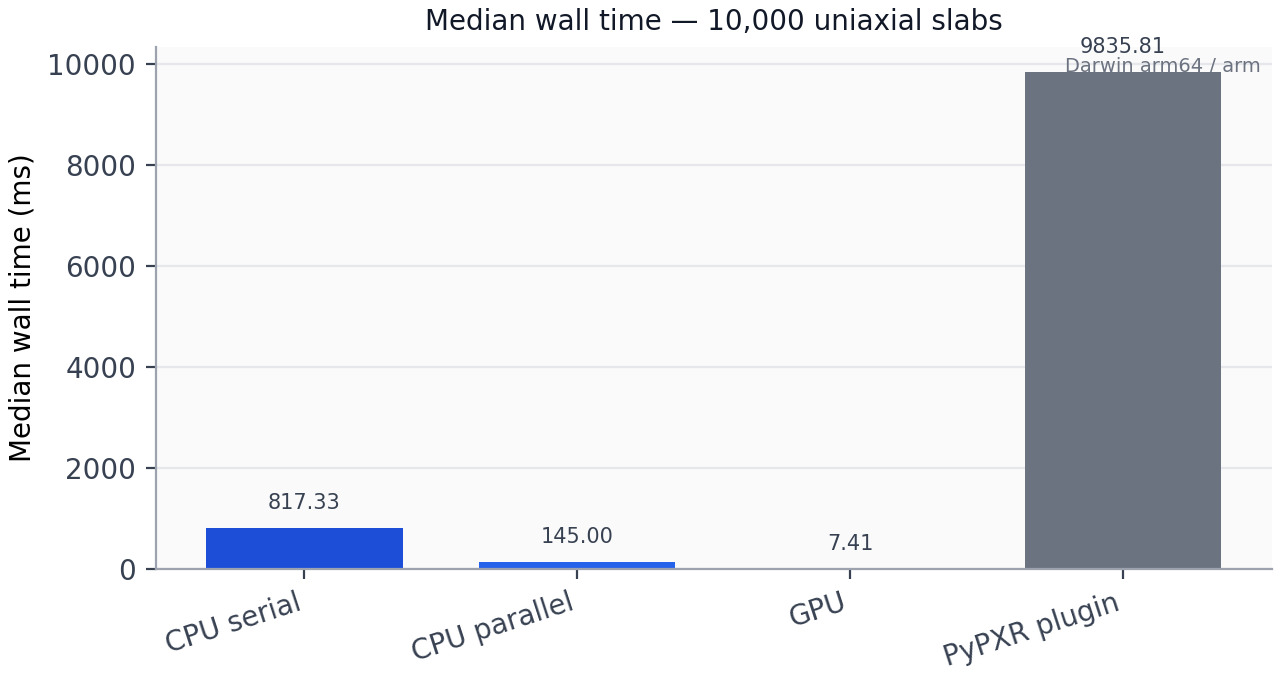
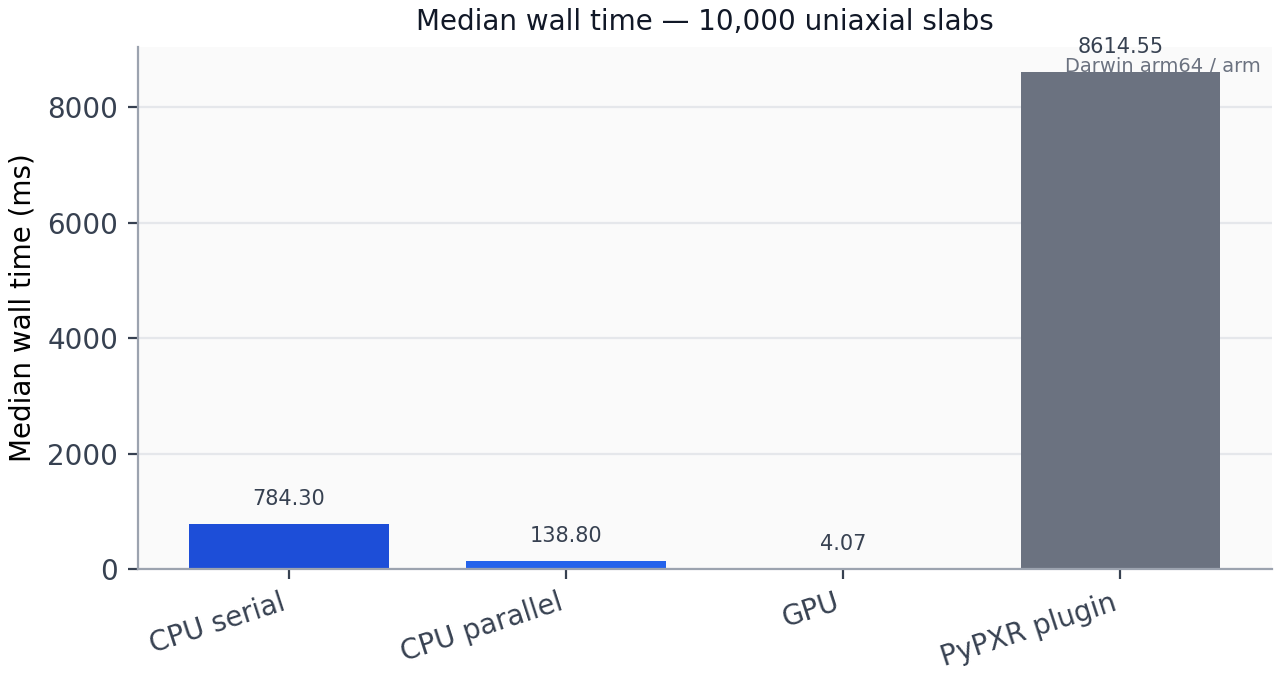
docs(readme): collapse bench details behind a hero performance figure
Add a horizontal log-scale hero chart and keep the full 1-slab / 10k
speed+memory panels in a GitHub <details> block for a cleaner README.

diff --git a/examples/gpu_backend_bench.py b/examples/gpu_backend_bench.py
@@ -469,6 +469,84 @@ def _bar_panel(
         )
 
 
+def write_hero_plot(
+    rows: list[BenchRow],
+    *,
+    out_dir: Path,
+    machine: str,
+    n_film: int = HEADLINE_FILMS[1],
+) -> Path:
+    """Wide horizontal README hero: wall time at ``n_film`` with speedup labels."""
+    import matplotlib.pyplot as plt
+
+    panel = _rows_for(rows, n_film)
+    if not panel:
+        msg = f"no finite rows for n_film={n_film}"
+        raise RuntimeError(msg)
+
+    # Slowest finite backend is the reference (PyPXR when present).
+    ref = max(panel, key=lambda r: r.median_s)
+    labels = [BACKEND_SHORT[r.backend] for r in reversed(panel)]
+    colors = [BACKEND_COLORS[r.backend] for r in reversed(panel)]
+    times_ms = [r.median_s * 1e3 for r in reversed(panel)]
+    speedups = [
+        (ref.median_s / r.median_s) if r.median_s > 0 else float("nan")
+        for r in reversed(panel)
+    ]
+
+    fig, ax = plt.subplots(figsize=(8.2, 3.2), layout="constrained")
+    ax.set_facecolor("#ffffff")
+    y = np.arange(len(labels))
+    ax.barh(y, times_ms, color=colors, height=0.62, zorder=2)
+    ax.set_yticks(y, labels)
+    ax.set_xscale("log")
+    ax.set_xlabel("Median wall time (ms, log scale)")
+    ax.set_title(
+        f"Uniaxial reflectivity — {n_film:,} film slabs / {panel[0].n_q} q-points",
+        fontsize=11,
+        color="#111827",
+        loc="left",
+        pad=10,
+    )
+    ax.spines["top"].set_visible(False)
+    ax.spines["right"].set_visible(False)
+    ax.spines["left"].set_color("#d1d5db")
+    ax.spines["bottom"].set_color("#d1d5db")
+    ax.grid(axis="x", color="#f3f4f6", linewidth=0.9, zorder=0)
+    ax.tick_params(colors="#374151")
+    xmax = max(times_ms)
+    for yi, ms, speedup in zip(y, times_ms, speedups, strict=True):
+        if speedup >= 1.05:
+            label = f"{ms:.1f} ms  ·  {speedup:.0f}×"
+        else:
+            label = f"{ms:.1f} ms  ·  baseline"
+        ax.text(
+            ms * 1.08,
+            yi,
+            label,
+            va="center",
+            ha="left",
+            fontsize=8,
+            color="#374151",
+        )
+    ax.set_xlim(min(times_ms) * 0.4, xmax * 8)
+    ax.text(
+        0.99,
+        0.02,
+        machine,
+        transform=ax.transAxes,
+        ha="right",
+        va="bottom",
+        fontsize=7,
+        color="#9ca3af",
+    )
+    out_dir.mkdir(parents=True, exist_ok=True)
+    path = out_dir / "bench_hero.png"
+    fig.savefig(path, dpi=220, facecolor="white")
+    plt.close(fig)
+    return path
+
+
 def write_plots(
     rows: list[BenchRow],
     *,
@@ -478,7 +556,7 @@ def write_plots(
     import matplotlib.pyplot as plt
 
     out_dir.mkdir(parents=True, exist_ok=True)
-    written: list[Path] = []
+    written: list[Path] = [write_hero_plot(rows, out_dir=out_dir, machine=machine)]
 
     fig, axes = plt.subplots(2, 2, figsize=(9.5, 6.8), layout="constrained")
     for col, n_film in enumerate(HEADLINE_FILMS):

diff --git a/README.md b/README.md
@@ -1,78 +1,86 @@
 # refloxide
 
-A blazingly fast 4x4 transfer matrix method for polarized reflectivity from stratified media.
+An extremely fast 4x4 transfer-matrix engine for **polarized** reflectivity
+from stratified media — written in Rust, with optional wgpu GPU acceleration
+and thin Python bindings.
 
-refloxide is a ground-up rewrite aimed at energy-dispersive soft X-ray and
-polarized neutron work where scalar codes fall short. It ships a Rust core
-(optional wgpu GPU path), thin Python bindings, and opt-in modeling /
-objective layers.
-
-Related baselines:
-
-- [refnx](https://github.com/refnx/refnx) — scalar Abeles / Parratt and the
-  host for the historical **PyPXR** polarized plugin API (vendored in-tree as
-  `refloxide.pxr.plugin`).
-- [refl1d](https://github.com/reflectometry/refl1d) — strong for scalar
-  stacks; awkward for general dielectric tensors.
+- Blazing forward models for uniaxial stacks (CPU + GPU)
+- Drop-in polarized path relative to the historical PyPXR / refnx plugin API
+- Opt-in modeling and objective layers for multi-energy fitting
 
 ## Performance
 
-Same **uniaxial** stack, four backends:
+On **10,000 uniaxial film slabs** (256 q-points), GPU finishes in ~4&nbsp;ms —
+about **2,000×** faster than the in-tree PyPXR / refnx plugin path, with ~50×
+less peak RSS.
 
-| Label | What runs |
+<p align="center">
+  <img src="docs/assets/performance/bench_hero.png" alt="Uniaxial reflectivity benchmark at 10,000 film slabs" width="820">
+</p>
+
+<p align="center">
+  <sub>
+    Apple Silicon (Darwin arm64) · same uniaxial stack · median of 3 runs ·
+    regenerate with <code>uv run python examples/gpu_backend_bench.py --plot</code>
+  </sub>
+</p>
+
+<details>
+<summary><strong>Full benchmark details</strong> — 1 slab &amp; 10k slabs, speed + memory, methodology</summary>
+
+<br>
+
+Same uniaxial problem on four backends:
+
+| Backend | Implementation |
 | --- | --- |
-| CPU serial | `refloxide` Rust kernel, `parallel=False` |
-| CPU parallel | `refloxide` Rust kernel, `parallel=True` |
-| GPU | `refloxide` wgpu recursion (`device="gpu"`) |
-| PyPXR plugin | in-tree `pxr.plugin` uniaxial path (pure-Python TMM; the refnx-plugin shape) |
+| CPU serial | Rust kernel, `parallel=False` |
+| CPU parallel | Rust kernel, `parallel=True` |
+| GPU | wgpu recursion (`device="gpu"`) |
+| PyPXR plugin | in-tree `refloxide.pxr.plugin` uniaxial path (pure-Python TMM) |
 
-Headline sizes: **1 uniaxial film slab** and **10,000 uniaxial film slabs**
-(plus vacuum / substrate), 256 q-points. Metrics: median wall time and peak
-process RSS (fresh subprocess per backend).
+**1 uniaxial slab**
+
+<p align="center">
+  <img src="docs/assets/performance/bench_wall_time_1slab.png" alt="Wall time at 1 uniaxial slab" width="640">
+  <img src="docs/assets/performance/bench_memory_1slab.png" alt="RSS at 1 uniaxial slab" width="640">
+</p>
+
+**10,000 uniaxial slabs**
+
+<p align="center">
+  <img src="docs/assets/performance/bench_wall_time_10k.png" alt="Wall time at 10k uniaxial slabs" width="640">
+  <img src="docs/assets/performance/bench_memory_10k.png" alt="RSS at 10k uniaxial slabs" width="640">
+</p>
+
+**Combined grid**
+
+<p align="center">
+  <img src="docs/assets/performance/bench_uniaxial_grid.png" alt="Speed and memory grid" width="820">
+</p>
+
+Notes:
+
+- Apples-to-apples **uniaxial** comparison (not scalar Abeles).
+- Memory is peak process RSS in a fresh subprocess.
+- `refnx` is a **dev/plugin** extra for the plugin import graph only — not a
+  core runtime dependency of the Rust kernels.
+- CI runs the same script on Ubuntu and macOS and uploads artifacts; GPU rows
+  appear only when a wgpu adapter is present.
+- Guide: [`docs/guides/gpu.md`](docs/guides/gpu.md)
 
 ```bash
 uv sync --group dev --group plugin
 uv run python examples/gpu_backend_bench.py --plot
 ```
 
-CI runs the same script on Ubuntu and macOS and uploads artifacts (GPU rows
-only when a wgpu adapter is present).
-
-### 1 uniaxial slab
-
-![Wall time — 1 slab](docs/assets/performance/bench_wall_time_1slab.png)
-
-![Memory — 1 slab](docs/assets/performance/bench_memory_1slab.png)
-
-### 10,000 uniaxial slabs
-
-![Wall time — 10k slabs](docs/assets/performance/bench_wall_time_10k.png)
-
-![Memory — 10k slabs](docs/assets/performance/bench_memory_10k.png)
-
-Combined grid (also written by the bench):
-
-![Uniaxial speed and memory grid](docs/assets/performance/bench_uniaxial_grid.png)
-
-Notes:
-
-- This is an **apples-to-apples uniaxial** comparison. Scalar Abeles is
-  deliberately not plotted here — it solves a cheaper problem.
-- Memory bars are peak process RSS in a fresh interpreter (includes NumPy
-  inputs, Rust working set, and Python temporaries on the plugin path).
-- `refnx` is a **dev/plugin** extra (needed to import the plugin path), not a
-  core runtime dependency of the Rust kernels. See
-  [GPU guide](docs/guides/gpu.md).
+</details>
 
 ## Installation
 
 ```bash
 pip install refloxide
-```
-
-Or with uv:
-
-```bash
+# or
 uv add refloxide
 ```
 
@@ -87,32 +95,21 @@ refl, tran = uniaxial_reflectivity(q, layers, tensor, energy_ev, device="cpu")
 
 ## Development
 
-### Prerequisites
-
-- Python 3.13+
-- [uv](https://docs.astral.sh/uv/) for package management
-
-### Setup
-
 ```bash
 git clone https://github.com/ALS-RSOXS/refloxide.git
 cd refloxide
 make develop   # uv sync --group dev --group plugin + maturin develop --release
-```
-
-### Tests and checks
-
-```bash
 make test
 make verify
+```
+
+GPU precision tests skip when no adapter is present:
+
+```bash
 uv run pytest tests/test_gpu_precision.py -q
 ```
 
-### Documentation
-
-```bash
-make docs-serve
-```
+Docs: `make docs-serve`
 
 ## License
 

diff --git a/docs/assets/performance/gpu_backend_bench_results.md b/docs/assets/performance/gpu_backend_bench_results.md
@@ -1,6 +1,6 @@
 # Uniaxial backend bench
 
-- generated: `2026-10-09T06:37:33Z`
+- generated: `2026-10-09T06:39:29Z`
 - machine: `Darwin arm64 / arm`
 - energy_ev: `250.0`
 - n_q: `256`
@@ -9,11 +9,11 @@
 
 | backend | n_film | n_q | n_layers | median_ms | heap_MiB | rss_MiB | notes |
 | --- | ---: | ---: | ---: | ---: | ---: | ---: | --- |
-| refloxide CPU serial | 1 | 256 | 3 | 0.189 | 0.000 | 28.2 |  |
-| refloxide CPU parallel | 1 | 256 | 3 | 0.094 | 0.000 | 28.6 |  |
-| refloxide GPU | 1 | 256 | 3 | 0.352 | 0.000 | 39.8 | wgpu adapter present |
-| PyPXR / refnx plugin | 1 | 256 | 3 | 2.216 | 1.529 | 150.2 | pxr.plugin uniaxial (pure-Python TMM) |
-| refloxide CPU serial | 10000 | 256 | 10002 | 817.328 | 0.000 | 31.8 |  |
-| refloxide CPU parallel | 10000 | 256 | 10002 | 144.998 | 0.000 | 32.3 |  |
-| refloxide GPU | 10000 | 256 | 10002 | 7.406 | 0.000 | 43.9 | wgpu adapter present |
-| PyPXR / refnx plugin | 10000 | 256 | 10002 | 9835.808 | 4220.977 | 3521.1 | pxr.plugin uniaxial (pure-Python TMM) |
+| refloxide CPU serial | 1 | 256 | 3 | 0.230 | 0.000 | 28.0 |  |
+| refloxide CPU parallel | 1 | 256 | 3 | 0.116 | 0.000 | 28.6 |  |
+| refloxide GPU | 1 | 256 | 3 | 0.744 | 0.000 | 39.8 | wgpu adapter present |
+| PyPXR / refnx plugin | 1 | 256 | 3 | 2.268 | 1.529 | 150.3 | pxr.plugin uniaxial (pure-Python TMM) |
+| refloxide CPU serial | 10000 | 256 | 10002 | 784.299 | 0.000 | 31.7 |  |
+| refloxide CPU parallel | 10000 | 256 | 10002 | 138.803 | 0.000 | 32.3 |  |
+| refloxide GPU | 10000 | 256 | 10002 | 4.070 | 0.000 | 43.9 | wgpu adapter present |
+| PyPXR / refnx plugin | 10000 | 256 | 10002 | 8614.550 | 4220.977 | 2146.7 | pxr.plugin uniaxial (pure-Python TMM) |
